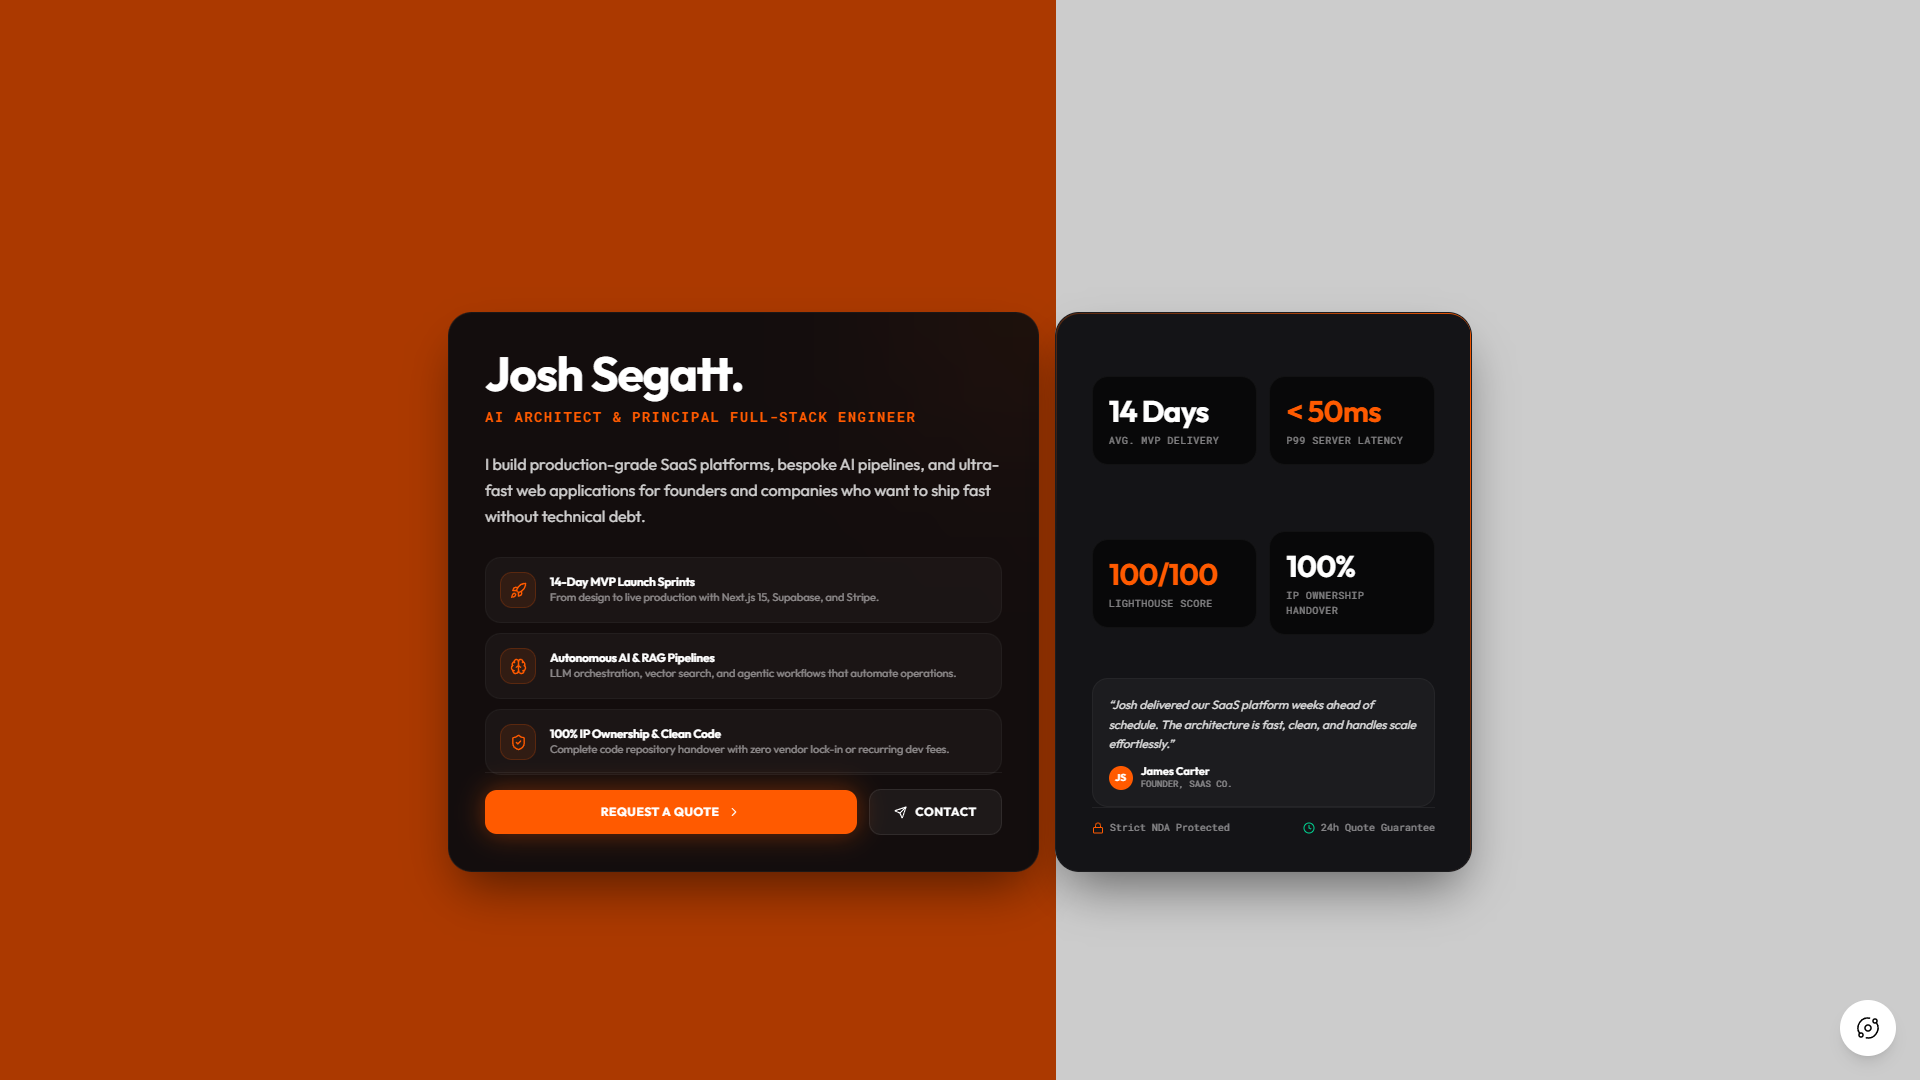
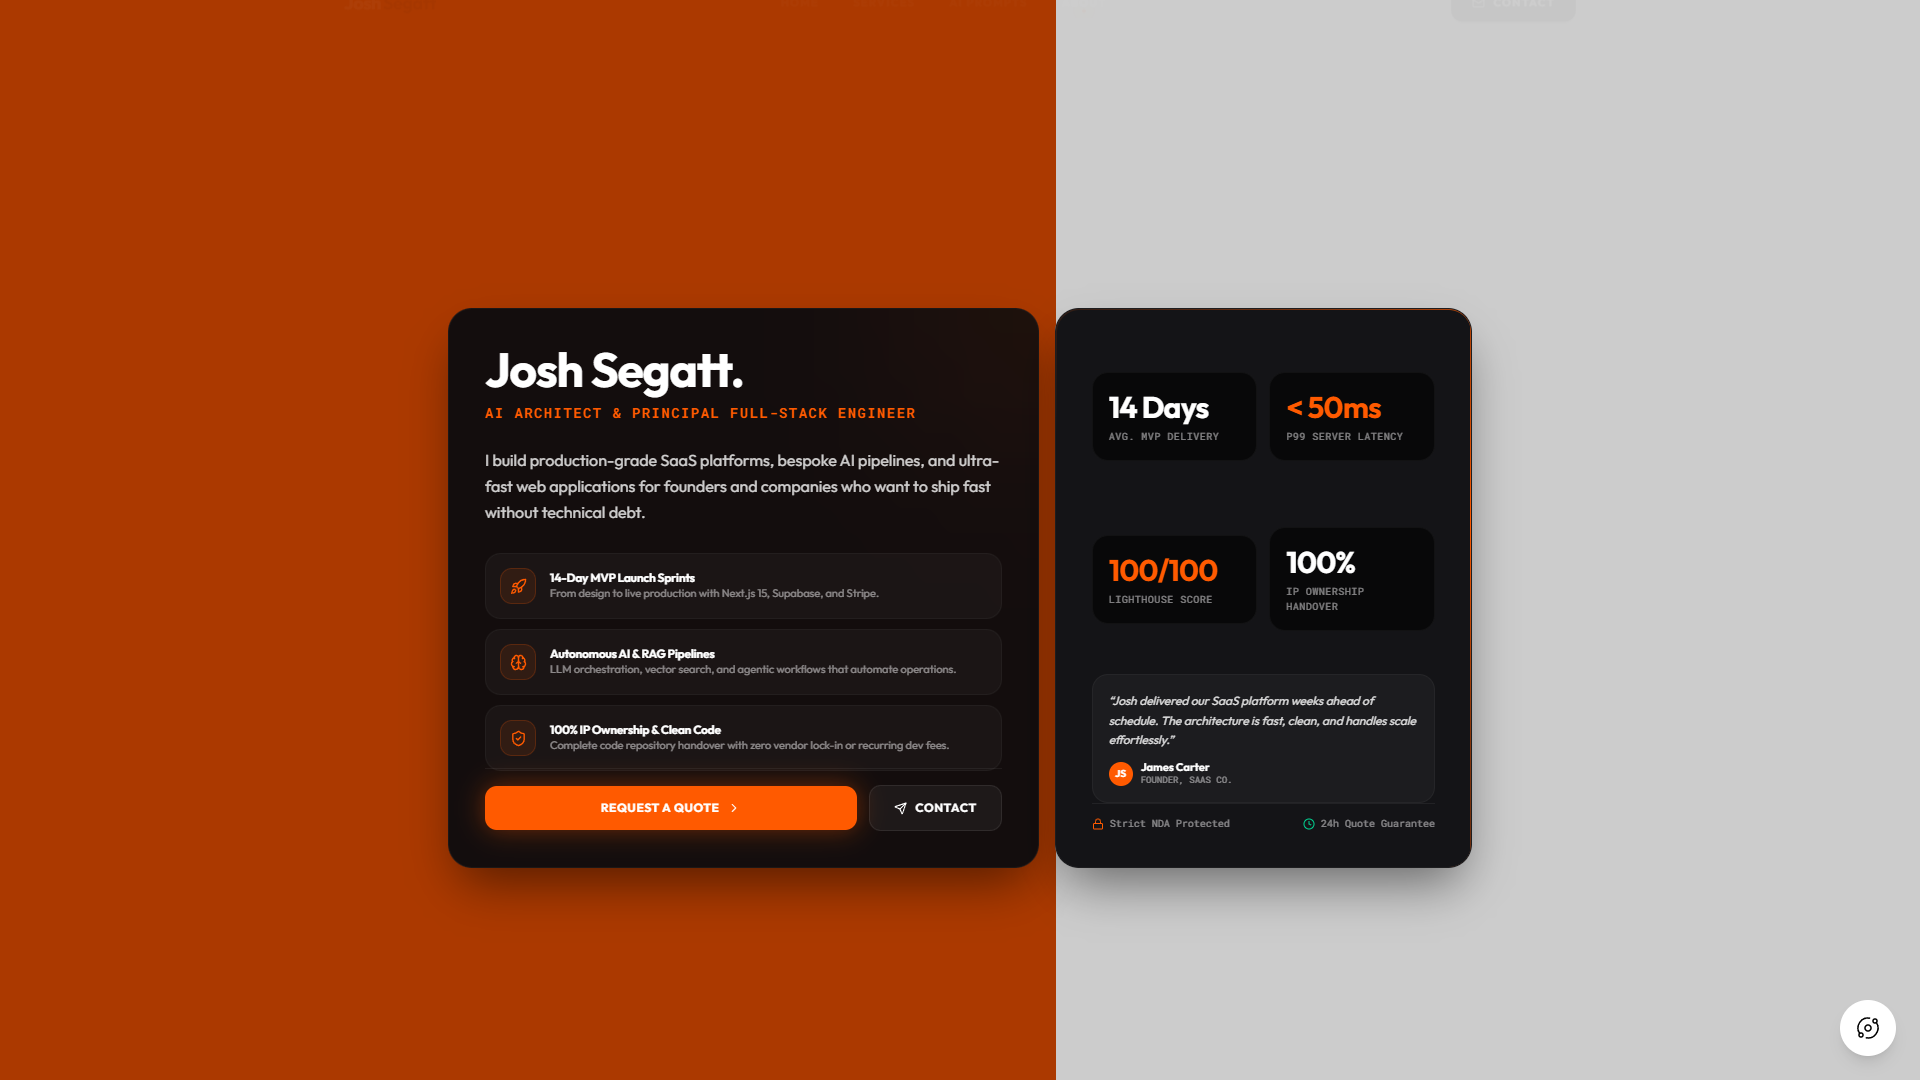
fix(mobile): refine responsive layout, typography hierarchy, and prevent mobile element collisions

diff --git a/components/Hero.tsx b/components/Hero.tsx
@@ -16,7 +16,7 @@ const Hero: React.FC = () => {
 
   return (
     <>
-      <section className="relative h-[100dvh] min-h-[800px] w-full overflow-hidden bg-transparent">
+      <section className="relative h-[100dvh] min-h-[640px] lg:min-h-[800px] w-full overflow-hidden bg-transparent">
         {/* CSS Background Split */}
         <div className="absolute inset-0 flex">
           {/* Approximate orange from the generated image */}
@@ -29,33 +29,33 @@ const Hero: React.FC = () => {
           <img 
             src="/assets/josh-hero.jpg" 
             alt="Hero Background" 
-            className="h-full w-auto max-w-none object-contain pointer-events-none"
+            className="h-full w-full object-cover lg:w-auto lg:max-w-none lg:object-contain object-[78%_center] lg:object-center pointer-events-none"
             style={{ 
               maskImage: 'linear-gradient(to right, transparent 0%, black 15%, black 85%, transparent 100%)',
               WebkitMaskImage: 'linear-gradient(to right, transparent 0%, black 15%, black 85%, transparent 100%)'
             }}
           />
-          {/* Subtle gradient overlay to ensure text readability if needed */}
-          <div className="absolute inset-0 bg-gradient-to-r from-black/20 via-transparent to-transparent pointer-events-none" />
+          {/* Subtle gradient overlay to ensure text readability on mobile and desktop */}
+          <div className="absolute inset-0 bg-gradient-to-r from-black/50 via-black/15 to-transparent lg:from-black/20 lg:via-transparent lg:to-transparent pointer-events-none" />
         </div>
 
         {/* Content Container */}
         <div className="absolute inset-0 w-full max-w-[1600px] mx-auto flex">
           
-          {/* Left Column Content */}
-          <div className="w-1/2 h-full flex flex-col justify-center px-12 lg:px-24 z-20">
+          {/* Left Column Content (Mobile Responsive) */}
+          <div className="w-full lg:w-1/2 h-full flex flex-col justify-center px-6 sm:px-12 lg:px-24 z-20 pt-20 sm:pt-24 lg:pt-0">
             <motion.div {...fadeUp(0)}>
-              <h1 className="text-[clamp(40px,9vw,150px)] font-black text-white leading-[0.85] tracking-tighter mix-blend-overlay opacity-90 -ml-2 select-none uppercase">
+              <h1 className="text-4xl sm:text-6xl lg:text-[clamp(40px,9vw,150px)] font-black text-white leading-[0.9] tracking-tighter mix-blend-overlay opacity-90 -ml-1 select-none uppercase">
                 CREATE
               </h1>
             </motion.div>
             
-            <motion.div {...fadeUp(0.1)} className="mt-8 mb-10">
-              <h2 className="text-white text-2xl md:text-3xl font-bold mb-4 leading-tight drop-shadow-md">
+            <motion.div {...fadeUp(0.1)} className="mt-4 mb-6 sm:mt-6 sm:mb-8 lg:mt-8 lg:mb-10">
+              <h2 className="text-white text-xl sm:text-2xl lg:text-3xl font-bold mb-2 sm:mb-3 lg:mb-4 leading-tight drop-shadow-md max-w-sm sm:max-w-md">
                 {t('hero.title_line1')} <br />
                 {t('hero.title_line2')}
               </h2>
-              <p className="text-white/90 text-base md:text-lg max-w-sm font-medium drop-shadow-md">
+              <p className="text-white/90 text-xs sm:text-sm lg:text-lg max-w-xs sm:max-w-sm font-medium drop-shadow-md leading-relaxed">
                 {t('hero.subhead')}
               </p>
             </motion.div>
@@ -63,37 +63,37 @@ const Hero: React.FC = () => {
             <motion.div {...fadeUp(0.2)}>
               <button
                 onClick={() => setIsModalOpen(true)}
-                className="group relative inline-flex items-center gap-3 px-8 py-4 rounded-full bg-white text-[#FF5A00] text-sm font-black uppercase tracking-[0.2em] transition-all hover:scale-105 active:scale-95 border-none cursor-pointer shadow-[0_0_40px_rgba(255,255,255,0.4)]"
+                className="group relative inline-flex items-center gap-2 sm:gap-3 px-6 py-3.5 sm:px-8 sm:py-4 rounded-full bg-white text-[#FF5A00] text-xs sm:text-sm font-black uppercase tracking-[0.2em] transition-all hover:scale-105 active:scale-95 border-none cursor-pointer shadow-[0_0_40px_rgba(255,255,255,0.4)]"
               >
                 <span className="relative z-10 flex items-center gap-2">
                   Request a Quote
-                  <ChevronRight size={18} />
+                  <ChevronRight size={16} className="sm:w-[18px] sm:h-[18px]" />
                 </span>
               </button>
             </motion.div>
 
-            {/* Social Proof */}
-            <motion.div {...fadeUp(0.3)} className="absolute bottom-20 left-12 lg:left-24">
+            {/* Social Proof (Responsive Placement) */}
+            <motion.div {...fadeUp(0.3)} className="mt-6 sm:mt-8 lg:mt-0 lg:absolute lg:bottom-20 lg:left-24">
               <div className="flex items-center gap-3">
-                <div className="flex -space-x-3">
+                <div className="flex -space-x-2.5 sm:-space-x-3">
                   {[1, 2, 3, 4].map((i) => (
-                    <div key={i} className="w-10 h-10 rounded-full border-2 border-[#FF5A00] bg-[#cc4f00] flex items-center justify-center text-xs font-bold text-white overflow-hidden">
+                    <div key={i} className="w-8 h-8 sm:w-10 sm:h-10 rounded-full border-2 border-[#FF5A00] bg-[#cc4f00] flex items-center justify-center text-xs font-bold text-white overflow-hidden">
                        <img src={`https://i.pravatar.cc/100?img=${i + 10}`} alt="avatar" className="w-full h-full object-cover" />
                     </div>
                   ))}
-                  <div className="w-10 h-10 rounded-full border-2 border-[#FF5A00] bg-black/20 flex items-center justify-center text-[10px] font-bold text-white">
+                  <div className="w-8 h-8 sm:w-10 sm:h-10 rounded-full border-2 border-[#FF5A00] bg-black/20 flex items-center justify-center text-[9px] sm:text-[10px] font-bold text-white">
                     +12
                   </div>
                 </div>
               </div>
-              <p className="text-white/90 text-xs mt-3 max-w-[200px] drop-shadow-md font-medium">
+              <p className="text-white/90 text-[11px] sm:text-xs mt-2 sm:mt-3 max-w-[180px] sm:max-w-[200px] drop-shadow-md font-medium leading-snug">
                 Trusted by forward-thinking startups across Europe.
               </p>
             </motion.div>
           </div>
 
-          {/* Right Column Content */}
-          <div className="w-1/2 h-full flex flex-col justify-center px-12 lg:px-24 z-20 text-black">
+          {/* Right Column Content (Desktop Only - Avoids Mobile Collisions) */}
+          <div className="hidden lg:flex w-1/2 h-full flex-col justify-center px-12 lg:px-24 z-20 text-black">
              <motion.div 
                {...fadeUp(0.2)}
                className="absolute top-1/3 right-12 lg:right-24 text-right"

diff --git a/components/Header.tsx b/components/Header.tsx
@@ -26,22 +26,21 @@ const Header: React.FC = () => {
 
   return (
     <>
-      <div className="fixed top-0 left-0 right-0 z-[100] flex justify-center px-6 pt-5 pointer-events-none">
+      <div className="fixed top-0 left-0 right-0 z-[100] flex justify-center px-4 sm:px-6 pt-3 sm:pt-5 pointer-events-none">
         <motion.header
           initial={{ y: -100, opacity: 0 }}
           animate={{ y: 0, opacity: 1 }}
           transition={{ duration: 0.7, ease: [0.16, 1, 0.3, 1] }}
-          className="pointer-events-auto w-full max-w-7xl flex items-center justify-between px-6 py-4 transition-all duration-500 bg-transparent border-transparent"
+          className="pointer-events-auto w-full max-w-7xl flex items-center justify-between px-4 sm:px-6 py-2.5 sm:py-4 transition-all duration-500 bg-transparent border-transparent"
         >
           {/* Logo — Josh Segatt (Segatt is black on all pages over the orange split) */}
           <Link
             to="/"
             className="shrink-0 flex items-center overflow-hidden group"
           >
-            <div className="flex items-baseline gap-0 text-white font-black tracking-tight select-none">
-              <span className="text-[18px]">Josh</span>
-              <span className="inline-block w-[0.3em]"></span>
-              <span className="text-[18px] text-black">
+            <div className="flex items-baseline gap-0.5 text-white font-black tracking-tight select-none drop-shadow-sm">
+              <span className="text-[17px] sm:text-[18px]">Josh</span>
+              <span className="text-[17px] sm:text-[18px] text-black font-black">
                 Segatt
               </span>
             </div>
@@ -93,9 +92,10 @@ const Header: React.FC = () => {
             {/* Mobile Toggle */}
             <button
               onClick={() => setIsMobileMenuOpen(!isMobileMenuOpen)}
-              className="lg:hidden w-9 h-9 flex items-center justify-center rounded-xl bg-white/5 border border-white/8 text-white/70 hover:text-white transition-colors"
+              className="lg:hidden w-10 h-10 flex items-center justify-center rounded-xl bg-black/40 backdrop-blur-md border border-white/15 text-white hover:bg-black/60 transition-all shadow-md active:scale-95"
+              aria-label="Toggle navigation menu"
             >
-              {isMobileMenuOpen ? <X size={18} /> : <Menu size={18} />}
+              {isMobileMenuOpen ? <X size={20} /> : <Menu size={20} />}
             </button>
           </div>
         </motion.header>

diff --git a/components/Prompts.tsx b/components/Prompts.tsx
@@ -270,13 +270,13 @@ const Prompts: React.FC = () => {
   };
 
   return (
-    <div className="text-white selection:bg-[#FF5A00] selection:text-white h-full flex flex-col justify-center items-center overflow-hidden py-2">
+    <div className="text-white selection:bg-[#FF5A00] selection:text-white min-h-full lg:h-full flex flex-col justify-start lg:justify-center items-center py-4 lg:py-2">
       
       {/* ── Main Studio Split View (Centered, Balanced Proportions) ── */}
-      <div className="w-full max-w-5xl h-[570px] max-h-[85vh] flex flex-col lg:flex-row gap-4">
+      <div className="w-full max-w-5xl h-auto lg:h-[570px] lg:max-h-[85vh] flex flex-col lg:flex-row gap-4 pb-12 lg:pb-0">
         
         {/* ── Left Pane: Studio Controls & Input ── */}
-        <div className="lg:w-[46%] h-full flex flex-col justify-between p-5 sm:p-6 rounded-3xl bg-[#0B0B0E]/95 backdrop-blur-3xl border border-white/[0.04] shadow-2xl shadow-black/50 relative overflow-hidden">
+        <div className="w-full lg:w-[46%] h-auto lg:h-full flex flex-col justify-between p-5 sm:p-6 rounded-3xl bg-[#0B0B0E]/95 backdrop-blur-3xl border border-white/[0.04] shadow-2xl shadow-black/50 relative overflow-hidden">
           
           {/* Subtle background ambient orange aura */}
           <div className="absolute top-0 right-0 w-48 h-48 bg-[#FF5A00]/5 rounded-full blur-3xl pointer-events-none -translate-y-1/2 translate-x-1/2" />
@@ -427,7 +427,7 @@ const Prompts: React.FC = () => {
         </div>
 
         {/* ── Right Pane: Claude 3.7 / GPT Canvas Artifact Spec Window ── */}
-        <div className="lg:w-[54%] h-full flex flex-col rounded-3xl bg-[#0B0B0E]/95 backdrop-blur-3xl border border-white/[0.04] shadow-2xl shadow-black/50 overflow-hidden relative border-beam-orange">
+        <div className="w-full lg:w-[54%] min-h-[420px] lg:h-full flex flex-col rounded-3xl bg-[#0B0B0E]/95 backdrop-blur-3xl border border-white/[0.04] shadow-2xl shadow-black/50 overflow-hidden relative border-beam-orange">
           
           {/* Canvas Window Header Bar */}
           <div className="px-5 py-3.5 bg-white/[0.03] border-b border-white/8 flex items-center justify-between shrink-0">

diff --git a/components/About.tsx b/components/About.tsx
@@ -28,7 +28,7 @@ const About: React.FC = () => {
     <div
       itemScope
       itemType="https://schema.org/Person"
-      className="text-white selection:bg-[#FF5A00] selection:text-white h-full flex flex-col justify-center items-center overflow-hidden py-2"
+      className="text-white selection:bg-[#FF5A00] selection:text-white min-h-full lg:h-full flex flex-col justify-start lg:justify-center items-center py-4 lg:py-2"
     >
       {/* Hidden SEO Microdata */}
       <meta itemProp="name" content="Josh Segatt" />
@@ -36,7 +36,7 @@ const About: React.FC = () => {
       <meta itemProp="address" content="London, United Kingdom" />
 
       {/* ── Main Compact Executive Cards (Centered, Balanced Proportions) ── */}
-      <div className="w-full max-w-5xl h-[560px] max-h-[85vh] grid grid-cols-1 lg:grid-cols-12 gap-4">
+      <div className="w-full max-w-5xl h-auto lg:h-[560px] lg:max-h-[85vh] grid grid-cols-1 lg:grid-cols-12 gap-4 pb-12 lg:pb-0">
         
         {/* ── Left Column (7 cols): Identity & Direct Client Offer ── */}
         <div className="lg:col-span-7 h-full flex flex-col justify-between p-7 sm:p-9 rounded-3xl bg-[#0B0B0E]/95 backdrop-blur-3xl border border-white/[0.04] shadow-2xl shadow-black/50 relative overflow-hidden">

diff --git a/App.tsx b/App.tsx
@@ -107,14 +107,14 @@ const AppContent: React.FC = () => {
       <div className="relative z-10 flex flex-col h-screen w-full overflow-hidden">
         <Header />
 
-        <div className={`flex-1 flex overflow-hidden ${isHome ? 'pt-0' : 'pt-24 lg:pt-[104px]'}`}>
+        <div className={`flex-1 flex overflow-hidden ${isHome ? 'pt-0' : 'pt-16 sm:pt-20 lg:pt-[96px]'}`}>
           <main
             id="main-scroll-area"
             className={`flex-1 relative ${
-              isFixedHeroPage ? 'overflow-hidden' : 'overflow-y-auto custom-scrollbar'
+              isHome ? 'overflow-hidden' : 'overflow-y-auto lg:overflow-hidden custom-scrollbar'
             }`}
           >
-            <div className={`w-full ${isHome ? 'h-full px-0' : isFixedHeroPage ? 'h-full px-6 lg:px-12 max-w-[1440px] mx-auto' : 'min-h-full px-6 lg:px-12 max-w-[1440px] mx-auto'}`}>
+            <div className={`w-full ${isHome ? 'h-full px-0' : 'min-h-full lg:h-full px-4 sm:px-6 lg:px-12 max-w-[1440px] mx-auto'}`}>
               <Routes location={location}>
                 <Route path="/" element={<Hero />} />
                 <Route path="/about" element={<About />} />

diff --git a/components/AISolutions.tsx b/components/AISolutions.tsx
@@ -89,7 +89,7 @@ const AISolutions: React.FC = () => {
   const [isModalOpen, setIsModalOpen] = useState(false);
 
   return (
-    <div className="text-white selection:bg-[#FF5A00] selection:text-white h-[calc(100vh-125px)] max-h-[900px] flex flex-col justify-between overflow-hidden pt-4 pb-3">
+    <div className="text-white selection:bg-[#FF5A00] selection:text-white min-h-full lg:h-[calc(100vh-125px)] lg:max-h-[900px] flex flex-col justify-between pt-2 pb-12 lg:pb-3">
       
       {/* ── Interactive Full-Height Hover Mosaic ── */}
       <div className="flex-1 flex flex-col lg:flex-row gap-3 min-h-0 w-full">
